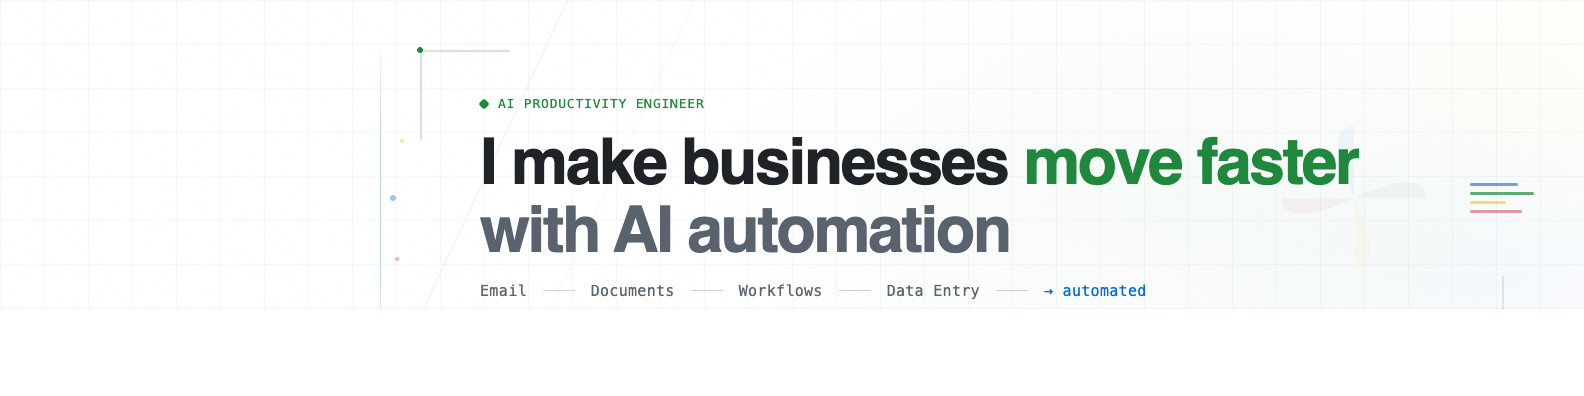
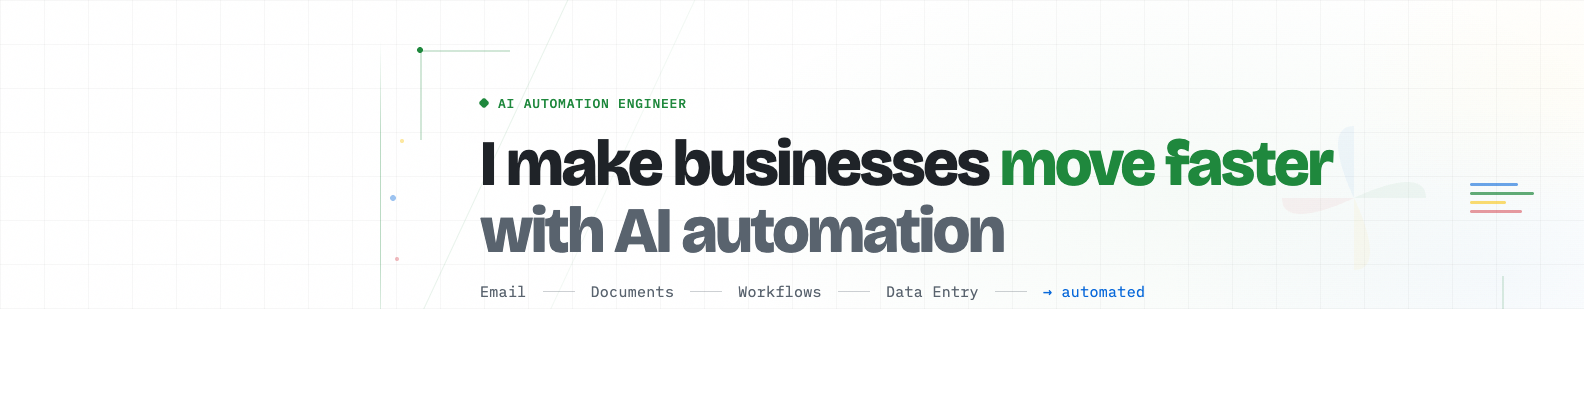
refactor(branding): rebrand from AI Productivity Engineer to AI Automation Engineer
Update all occurrences across site pages, meta tags, OG image, LinkedIn
banner, CLAUDE.md, and missions documents. Re-render og.png and
banner-linkedin.png with the new title.

diff --git a/linkedin-banner.html b/linkedin-banner.html
@@ -292,7 +292,7 @@
 
   <div class="wrapper">
 
-    <div class="badge">AI Productivity Engineer</div>
+    <div class="badge">AI Automation Engineer</div>
 
     <div class="headline">
       I make businesses <span class="accent">move faster</span><br>

diff --git a/og.html b/og.html
@@ -290,7 +290,7 @@
 
   <div class="wrapper">
 
-    <div class="badge">AI Productivity Engineer</div>
+    <div class="badge">AI Automation Engineer</div>
 
     <div class="name">Konstantin Borovik</div>
 

diff --git a/missions/ideal-customer-profile.md b/missions/ideal-customer-profile.md
@@ -1,4 +1,4 @@
-# Ideal Customer Profile: AI Productivity Engineer
+# Ideal Customer Profile: AI Automation Engineer
 
 **Target: Business owners, COOs, and ops leaders at companies where manual processes slow them down**
 Version 5.0 | April 2026 | CONFIDENTIAL
@@ -9,7 +9,7 @@ Version 5.0 | April 2026 | CONFIDENTIAL
 
 | Dimension           | Definition                                                                                       |
 | ------------------- | ------------------------------------------------------------------------------------------------ |
-| **Who I am**        | Konstantin Borovik — AI Productivity Engineer with 20+ years in systems integration and cloud architecture |
+| **Who I am**        | Konstantin Borovik — AI Automation Engineer with 20+ years in systems integration and cloud architecture |
 | **What I do**       | I modernize business operations with AI to make companies move faster                            |
 | **Core expertise**  | AI-powered automation for repetitive business processes — email, documents, workflows, data entry |
 | **Target audience** | Business owners, COOs, and ops leaders at companies where manual processes slow them down         |
@@ -42,7 +42,7 @@ Companies of every size share the same problems:
 
 | Attribute                                      | Why it matters                                                                     |
 | ---------------------------------------------- | ---------------------------------------------------------------------------------- |
-| **Heavy email/document volume**                | Direct AI productivity wins — email triage, document processing, data extraction   |
+| **Heavy email/document volume**                | Direct AI automation wins — email triage, document processing, data extraction   |
 | **Has ERP/CRM they want to integrate**         | Systems integration expertise — connect tools, automate data flow                  |
 | **Manual processes they know need automation** | Clear, measurable problem AI can solve                                             |
 | **No CTO or technical co-founder**             | They need the role I fill — not competing with existing technical leadership       |
@@ -54,11 +54,11 @@ Companies of every size share the same problems:
 - **Pre-revenue startup** — needs a company with real operations to automate
 - **Already has a strong CTO + engineering team** — they don't need me
 - **Looking for staff augmentation only** — I'm a leader, not a contractor filling a seat
-- **No identifiable repetitive processes** — if the bottleneck isn't manual work, AI productivity isn't the answer
+- **No identifiable repetitive processes** — if the bottleneck isn't manual work, AI automation isn't the answer
 
 ## 4. Industries with strong fit
 
-These paper-heavy, operations-driven industries have massive repetitive work — every one is a strong fit for AI productivity improvements.
+These paper-heavy, operations-driven industries have massive repetitive work — every one is a strong fit for AI automation improvements.
 
 | Industry                         | Why it's a fit                                                                                                                       | Systems to integrate                                            |
 | -------------------------------- | ------------------------------------------------------------------------------------------------------------------------------------ | --------------------------------------------------------------- |
@@ -102,7 +102,7 @@ These paper-heavy, operations-driven industries have massive repetitive work —
 | **Who**                  | CTO, VP Engineering, Technical Director — the existing technical decision-maker                                                                                 |
 | **What they care about** | Architecture quality, production reliability, whether the AI actually works                                                                                     |
 | **Pain they feel**       | "I'm the only technical person and I can't scale." "We need AI automation but I don't have time to build it."                                                   |
-| **Messaging angle**      | "20+ years from infrastructure to cloud to production AI. I can own your AI productivity automation — so you can focus on product."                              |
+| **Messaging angle**      | "20+ years from infrastructure to cloud to production AI. I can own your AI automation — so you can focus on product."                              |
 | **What converts them**   | The architecture page on lab5.ca — they see production-quality decisions and recognize a peer                                                                   |
 
 ## 6. Value proposition
@@ -141,7 +141,7 @@ This eliminates the "can they actually build?" question before the first convers
 | #   | Channel               | Approach                                                                                                             |
 | --- | --------------------- | -------------------------------------------------------------------------------------------------------------------- |
 | 1   | **Email (MailPilot)** | Primary channel. Use MailPilot to send outreach emails. Leads from [Apollo](https://app.apollo.io/#/saved/companies) |
-| 2   | **LinkedIn posts**    | Post about AI productivity, business process automation, and real examples of AI handling manual work                 |
+| 2   | **LinkedIn posts**    | Post about AI automation, business process automation, and real examples of AI handling manual work                 |
 | 3   | **Job boards**        | LinkedIn Jobs, AngelList/Wellfound — search for AI/Automation Lead roles, or companies posting about AI needs        |
 
 ### Email outreach (via MailPilot)
@@ -158,17 +158,17 @@ Body: "Hi [Name], I help companies automate repetitive work with AI — email, d
 
 Subject: "AI automation for [Company Name]'s operations"
 
-Body: "Hi [Name], I'm an AI productivity engineer — I automate the repetitive processes that slow companies down. Email triage, document processing, data entry, reporting. If your team is spending hours on manual work that follows a pattern, AI can handle it. Live demo: send anything to [email redacted]. — Konstantin | lab5.ca"
+Body: "Hi [Name], I'm an AI automation engineer — I automate the repetitive processes that slow companies down. Email triage, document processing, data entry, reporting. If your team is spending hours on manual work that follows a pattern, AI can handle it. Live demo: send anything to [email redacted]. — Konstantin | lab5.ca"
 
 **To CTOs:**
 
 Subject: "Production AI automation for [Company Name]"
 
-Body: "Hi [Name], I'm an engineer with 20+ years building production systems — most recently AI automation for business processes (lab5.ca). If [company] needs someone who can build real AI productivity tools (not demos), I'd love to connect. The demo is live — send anything to [email redacted]. — Konstantin"
+Body: "Hi [Name], I'm an engineer with 20+ years building production systems — most recently AI automation for business processes (lab5.ca). If [company] needs someone who can build real AI automation tools (not demos), I'd love to connect. The demo is live — send anything to [email redacted]. — Konstantin"
 
 ### LinkedIn posts
 
-Post 1-2 times per week about: AI productivity wins, automating repetitive business processes, real examples of AI handling email/documents/workflows. End every post with CTA to lab5.ca or [email redacted].
+Post 1-2 times per week about: AI automation wins, automating repetitive business processes, real examples of AI handling email/documents/workflows. End every post with CTA to lab5.ca or [email redacted].
 
 ## 8. Signals to watch
 
@@ -199,7 +199,7 @@ Post 1-2 times per week about: AI productivity wins, automating repetitive busin
 Track from the first 50 outreach attempts:
 
 - **Business owner vs. COO vs. CTO response rate** — Who responds more? Which leads to faster conversations?
-- **AI productivity vs. systems integration messaging** — Does "automate repetitive work with AI" outperform "connect your systems"?
+- **AI automation vs. systems integration messaging** — Does "automate repetitive work with AI" outperform "connect your systems"?
 - **Industry response rates** — Distribution vs. professional services vs. manufacturing vs. insurance
 - **Demo conversion** — Do people who try [email redacted] respond at higher rates?
 - **Company size sweet spot** — Is 20-50, 50-200, or 200+ more responsive?

diff --git a/missions/resume-linkedin.md b/missions/resume-linkedin.md
@@ -2,7 +2,7 @@
 
 ## Headline
 
-AI Productivity Engineer | I modernize business operations with AI | lab5.ca
+AI Automation Engineer | I modernize business operations with AI | lab5.ca
 
 ## Location
 
@@ -22,7 +22,7 @@ linkedin.com/in/kborovik
 
 I modernize business operations with AI to make companies move faster.
 
-20+ years progressing from systems engineering to cloud architecture to building production AI. I started building infrastructure at TD Bank, led teams at CDW, built cloud platforms at PayPal and Colliers International, and now build AI productivity tools independently.
+20+ years progressing from systems engineering to cloud architecture to building production AI. I started building infrastructure at TD Bank, led teams at CDW, built cloud platforms at PayPal and Colliers International, and now build AI automation tools independently.
 
 What I do: I automate repetitive business processes with AI — email, documents, workflows, data entry. If your team does it manually and it follows a pattern, AI can handle it.
 
@@ -43,7 +43,7 @@ lab5.ca | github.com/kborovik | [email redacted]
 
 ## Experience
 
-**AI Productivity Engineer**
+**AI Automation Engineer**
 lab5.ca
 _January 2026 — Present_
 
@@ -196,8 +196,8 @@ _2000 — 2002_
 ## LinkedIn Tips
 
 - **Creator mode**: Turn on for "Follow" button and featured section prominence
-- **Headline keywords**: "AI Productivity", "AI Automation", "AI Engineer", "business operations" are high-search terms
-- **Activity**: Post 1-2 times per week about AI productivity, automating repetitive business processes, real examples of AI handling manual work
+- **Headline keywords**: "AI Automation", "AI Engineer", "AI Engineer", "business operations" are high-search terms
+- **Activity**: Post 1-2 times per week about AI automation, automating repetitive business processes, real examples of AI handling manual work
 - **CTA in every post**: End with "See AI handle real email at lab5.ca" or "Try the demo — send any email to [email redacted]"
 - **Custom URL**: linkedin.com/in/kborovik
-- **Open to work**: Enable the "Open to Work" badge for AI Engineer, AI Productivity Engineer, Automation Lead, Tech Lead roles in North America
+- **Open to work**: Enable the "Open to Work" badge for AI Engineer, AI Automation Engineer, Automation Lead, Tech Lead roles in North America

diff --git a/CLAUDE.md b/CLAUDE.md
@@ -1,6 +1,6 @@
 # lab5.ca
 
-Personal portfolio and career site for Konstantin Borovik — AI Productivity Engineer. Positioning: AI-powered automation for repetitive business processes (email, documents, workflows, data entry). Cloud platforms (GCP, Azure, AWS) are implementation details, not the pitch. MailPilot (the AI email platform in `/Users/kb/github/pilot`) is featured as a proof-of-capability demo showing how AI handles real business communication.
+Personal portfolio and career site for Konstantin Borovik — AI Automation Engineer. Positioning: AI-powered automation for repetitive business processes (email, documents, workflows, data entry). Cloud platforms (GCP, Azure, AWS) are implementation details, not the pitch. MailPilot (the AI email platform in `/Users/kb/github/pilot`) is featured as a proof-of-capability demo showing how AI handles real business communication.
 
 ## Commands
 
@@ -36,7 +36,7 @@ src/
 │   ├── Footer.astro          # Footer links, copyright
 │   └── Logo.astro            # Typographic logo — unused after pivot
 ├── pages/
-│   ├── index.astro           # / — hero, AI productivity pitch, MailPilot featured project, CTA
+│   ├── index.astro           # / — hero, AI automation pitch, MailPilot featured project, CTA
 │   ├── expertise.astro       # /expertise — AI Email, Document Processing, Workflow Automation, Data & Reporting
 │   ├── demo.astro            # /demo (Live Demo) — MailPilot demo, example questions, architecture
 │   └── about.astro           # /about — bio, LinkedIn, Book a Call
@@ -79,13 +79,13 @@ linkedin-banner.html          # LinkedIn banner source — render to PNG via hea
 
 ## Site positioning
 
-**Title**: AI Productivity Engineer
+**Title**: AI Automation Engineer
 **Tagline**: "I modernize business operations with AI to make companies move faster"
 **Core expertise**: AI-powered automation for repetitive business processes (email, documents, workflows, data entry). Cloud platforms (GCP, Azure, AWS) are implementation details.
 
 | Page       | Route        | Purpose                                                    |
 | ---------- | ------------ | ---------------------------------------------------------- |
-| Home       | `/`          | Hero, AI productivity pitch, MailPilot (reframed), CTA     |
+| Home       | `/`          | Hero, AI automation pitch, MailPilot (reframed), CTA     |
 | Expertise  | `/expertise` | AI Email & Communication, Document Processing, Workflow Automation, Data & Reporting |
 | Live Demo  | `/demo`      | MailPilot demo — "see how AI handles real business email"  |
 | About      | `/about`     | Bio, LinkedIn, Book a Call                                 |